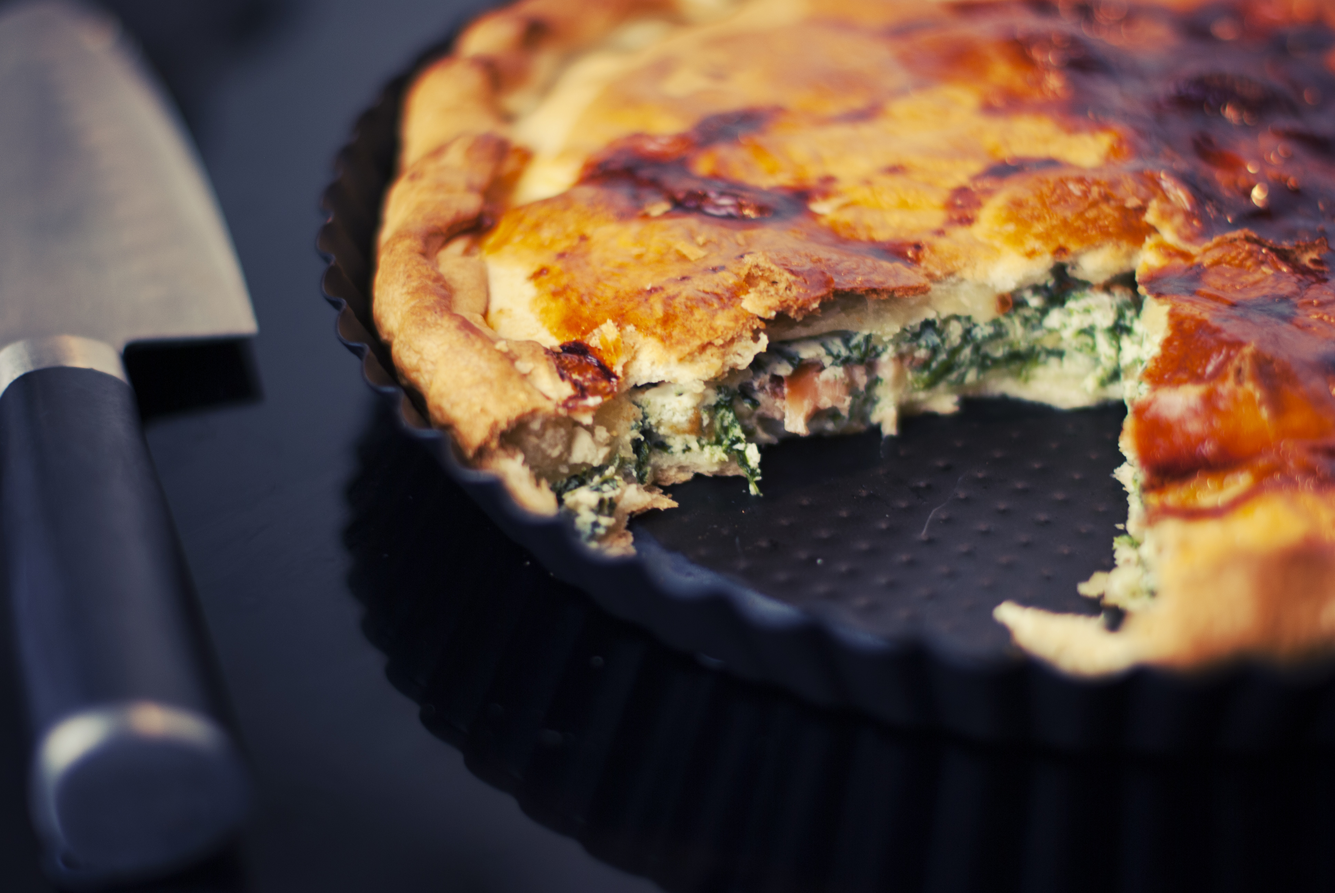
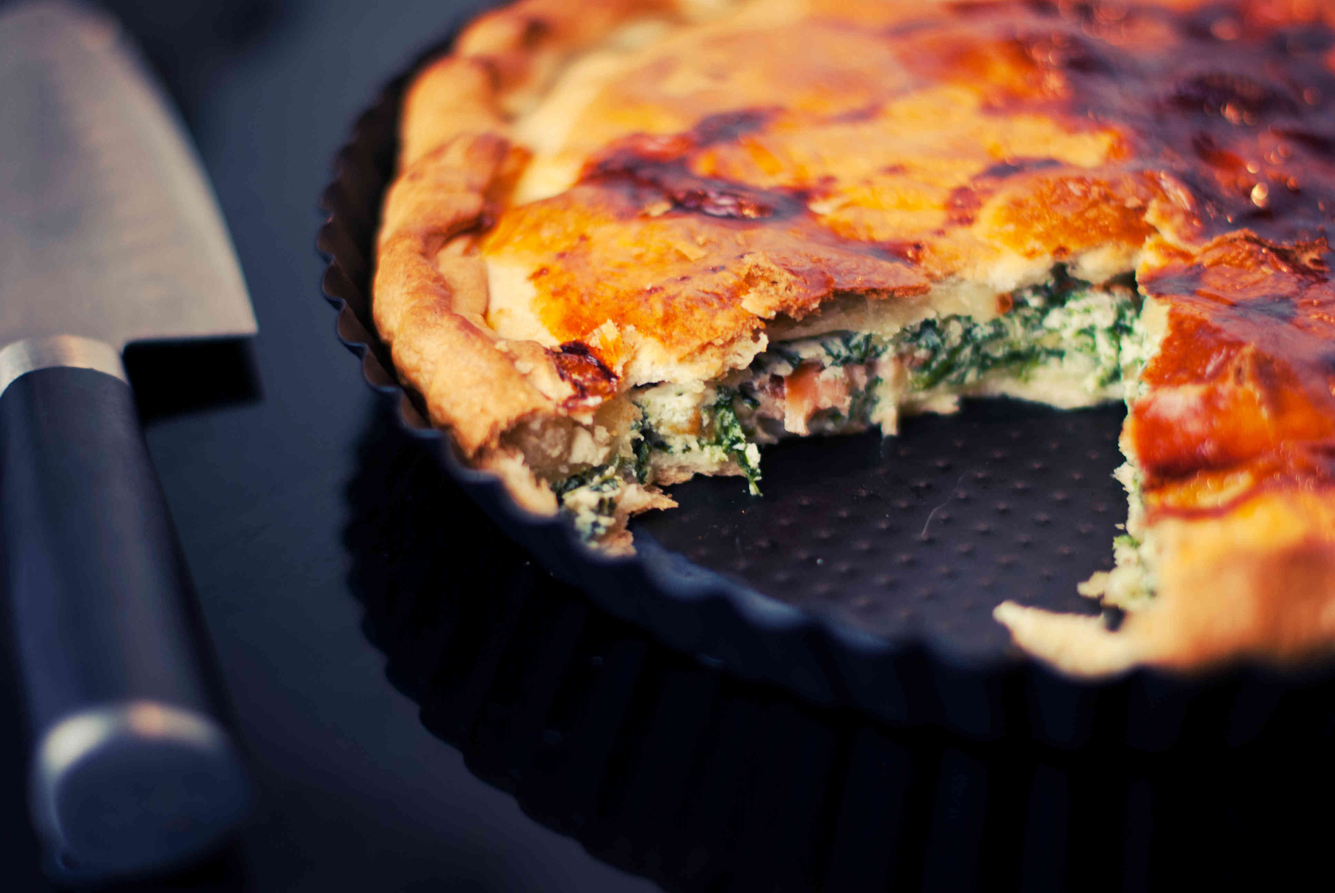
achico las imagenes, pesaban una banda

diff --git a/css/agency.css b/css/agency.css
@@ -400,6 +400,12 @@ section h3.section-subheading {
   height: 100%;
 }
 
+@media (max-width:800px) {
+  .timeline .timeline-heading h4.subheading {
+      margin-top: 0;
+  }
+}
+
 @media (min-width:768px) {
     .timeline:before {
         left: 50%
